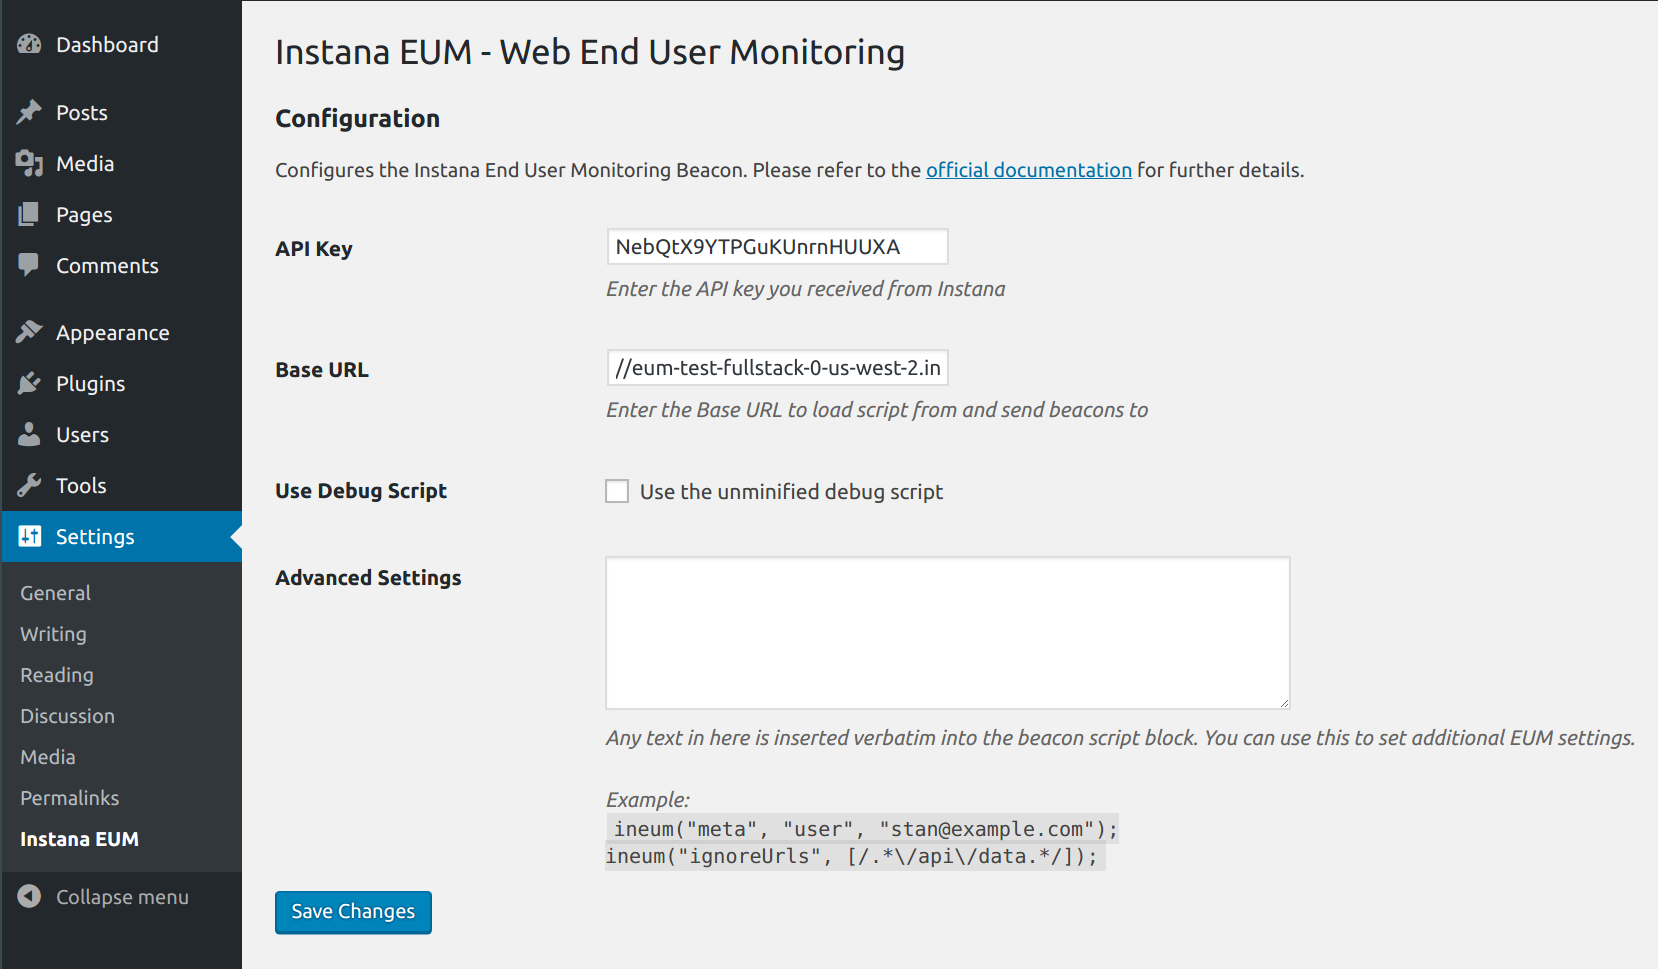
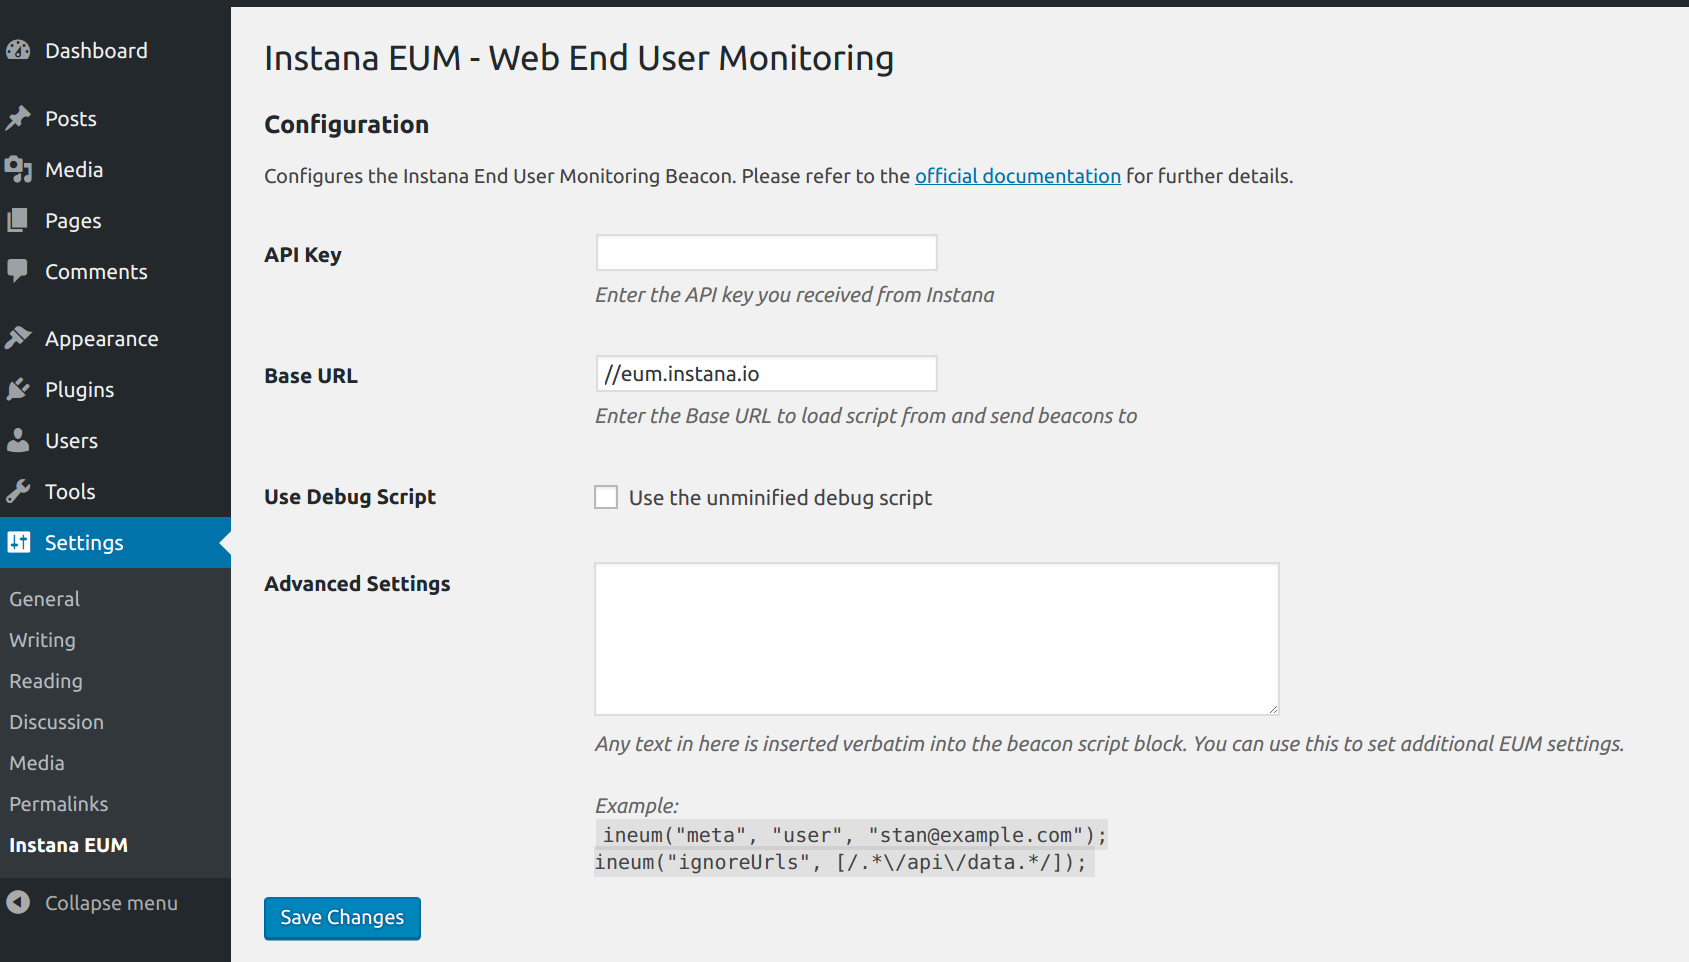
always insert tracking code
previously we'd not insert the tracking code when there was no trace id.
However, we want to always insert the tracking code but only exclude the
ineum call for trace ids when it doesnt exist

also updates the screenshot because it contained a token. not relevant
for security, but still shouldn't be there.

diff --git a/trunk/wp-instana-eum.php b/trunk/wp-instana-eum.php
@@ -3,7 +3,7 @@
 Plugin Name: Instana EUM
 Plugin URI:  https://github.com/instana/wp-instana-eum
 Description: Instana End User Monitoring
-Version:     1.0.0
+Version:     1.0.1
 Author:      Instana
 Author URI:  http://instana.com
 License:     Apache License 2.0
@@ -160,10 +160,6 @@ add_action(
 add_action(
     'wp_head',
     function() {
-        // do not insert the tracking code if there is no trace id
-        if (!isset($_SERVER[X_INSTANA_T])) {
-            return;
-        }
         $baseUrl = get_option(INSTANA_EUM_BASE_URL, DEFAULT_EUM_BASE_URL);
         $scriptName = boolval(get_option(INSTANA_EUM_USE_DEBUG, false)) ? 'eum.debug.js' : 'eum.min.js';
 
@@ -173,7 +169,9 @@ add_action(
   m=s.getElementsByTagName(o)[0];a.async=1;a.src=g;m.parentNode.insertBefore(a,m)
   })(window,document,'script','%s/%s','ineum');%s", $baseUrl, $scriptName, PHP_EOL);
         printf("ineum('apiKey', '%s');%s", get_option(INSTANA_API_KEY, ''), PHP_EOL);
-        printf("ineum('traceId', '%s');%s", $_SERVER[X_INSTANA_T], PHP_EOL);
+        if (!isset($_SERVER[X_INSTANA_T])) {
+            printf("ineum('traceId', '%s');%s", $_SERVER[X_INSTANA_T], PHP_EOL);
+        }
         if ($baseUrl !== DEFAULT_EUM_BASE_URL) {
             printf("ineum('reportingUrl', '%s');%s", $baseUrl, PHP_EOL);
         }
